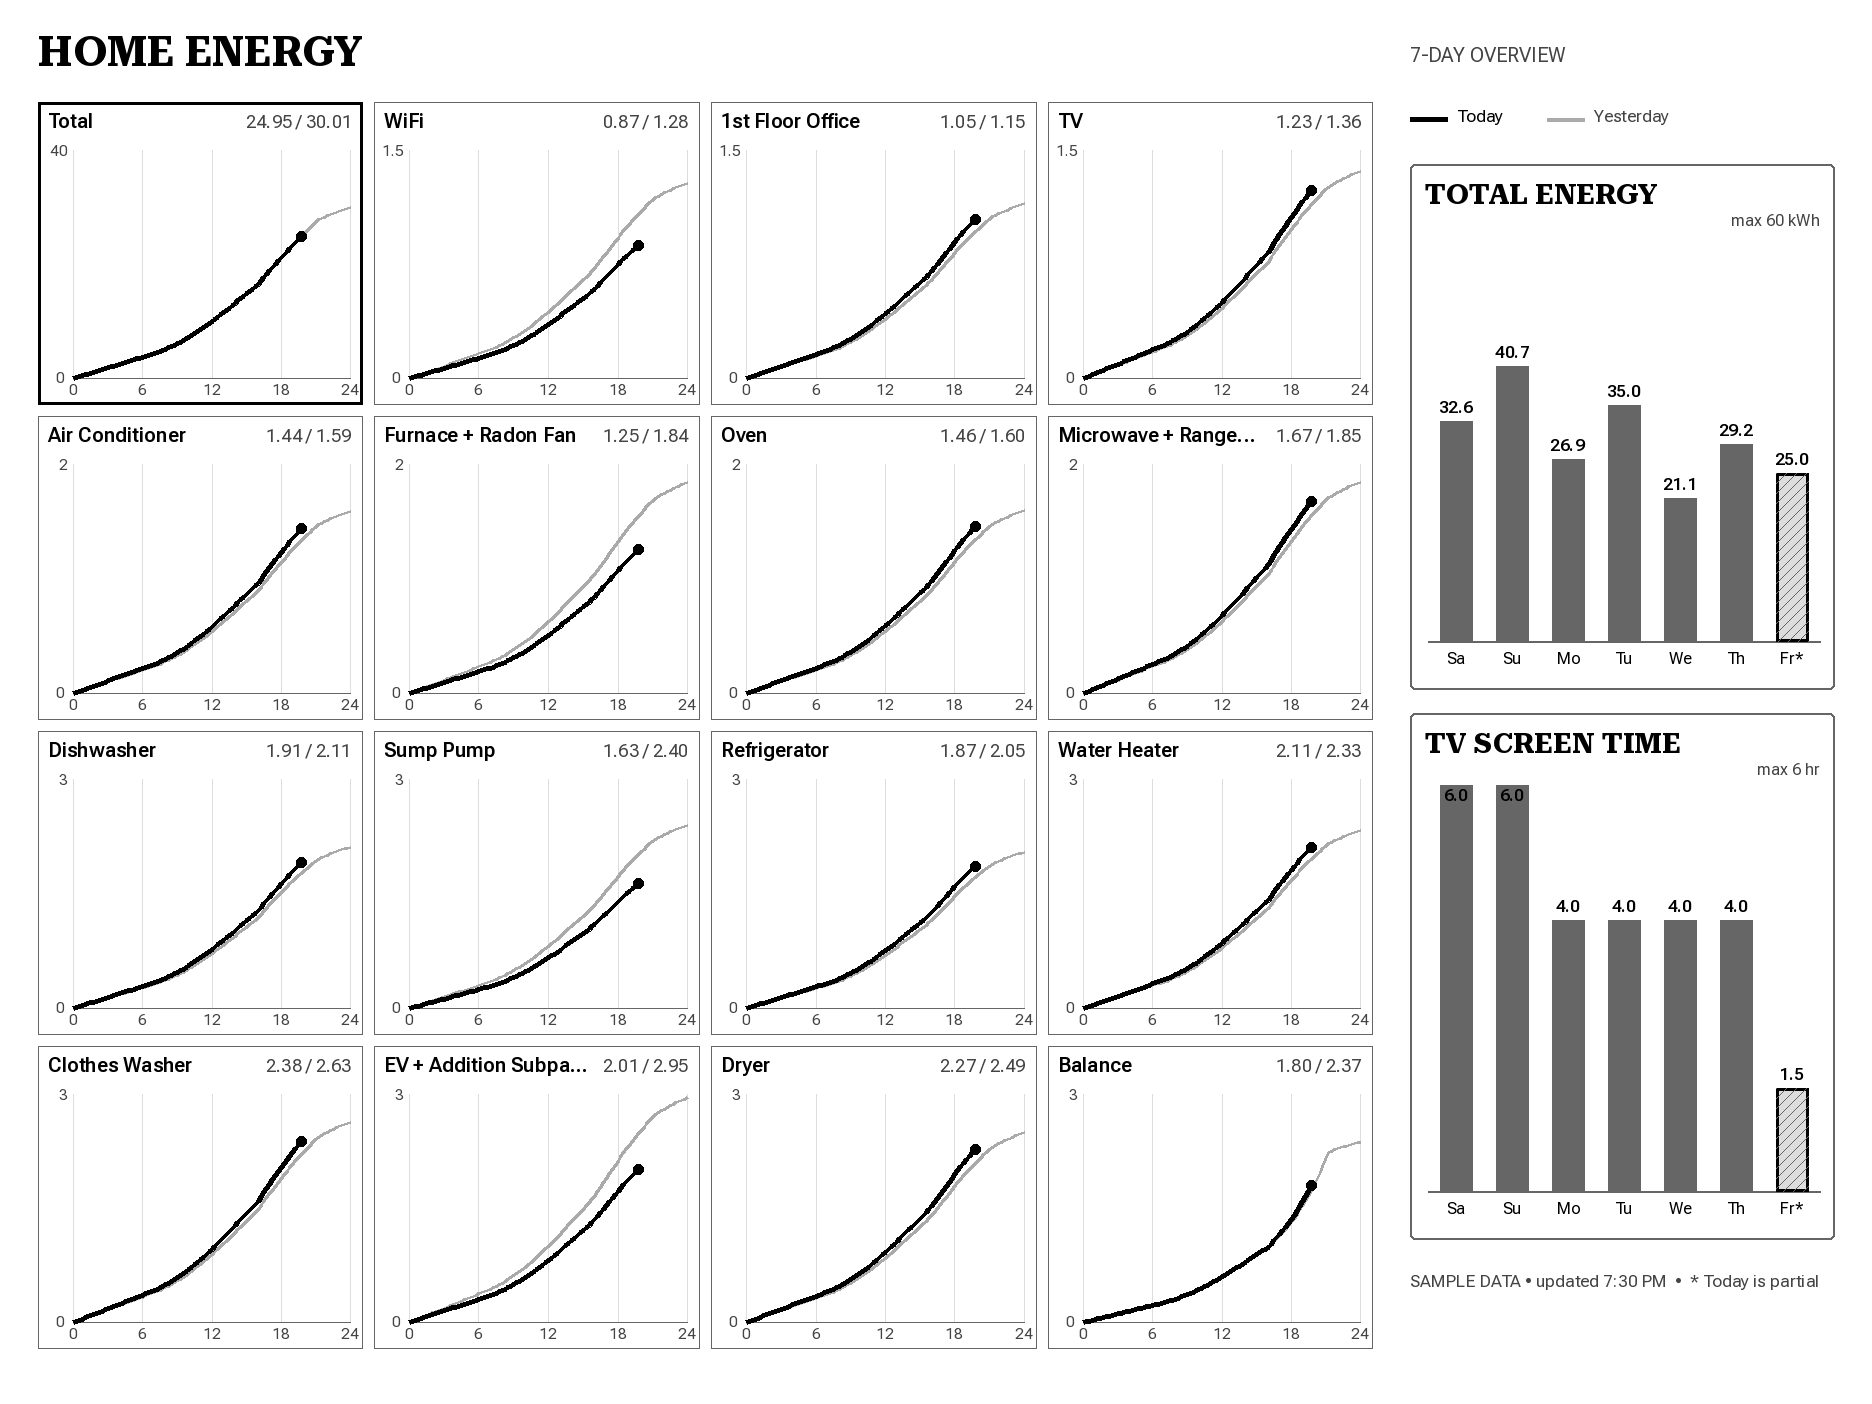
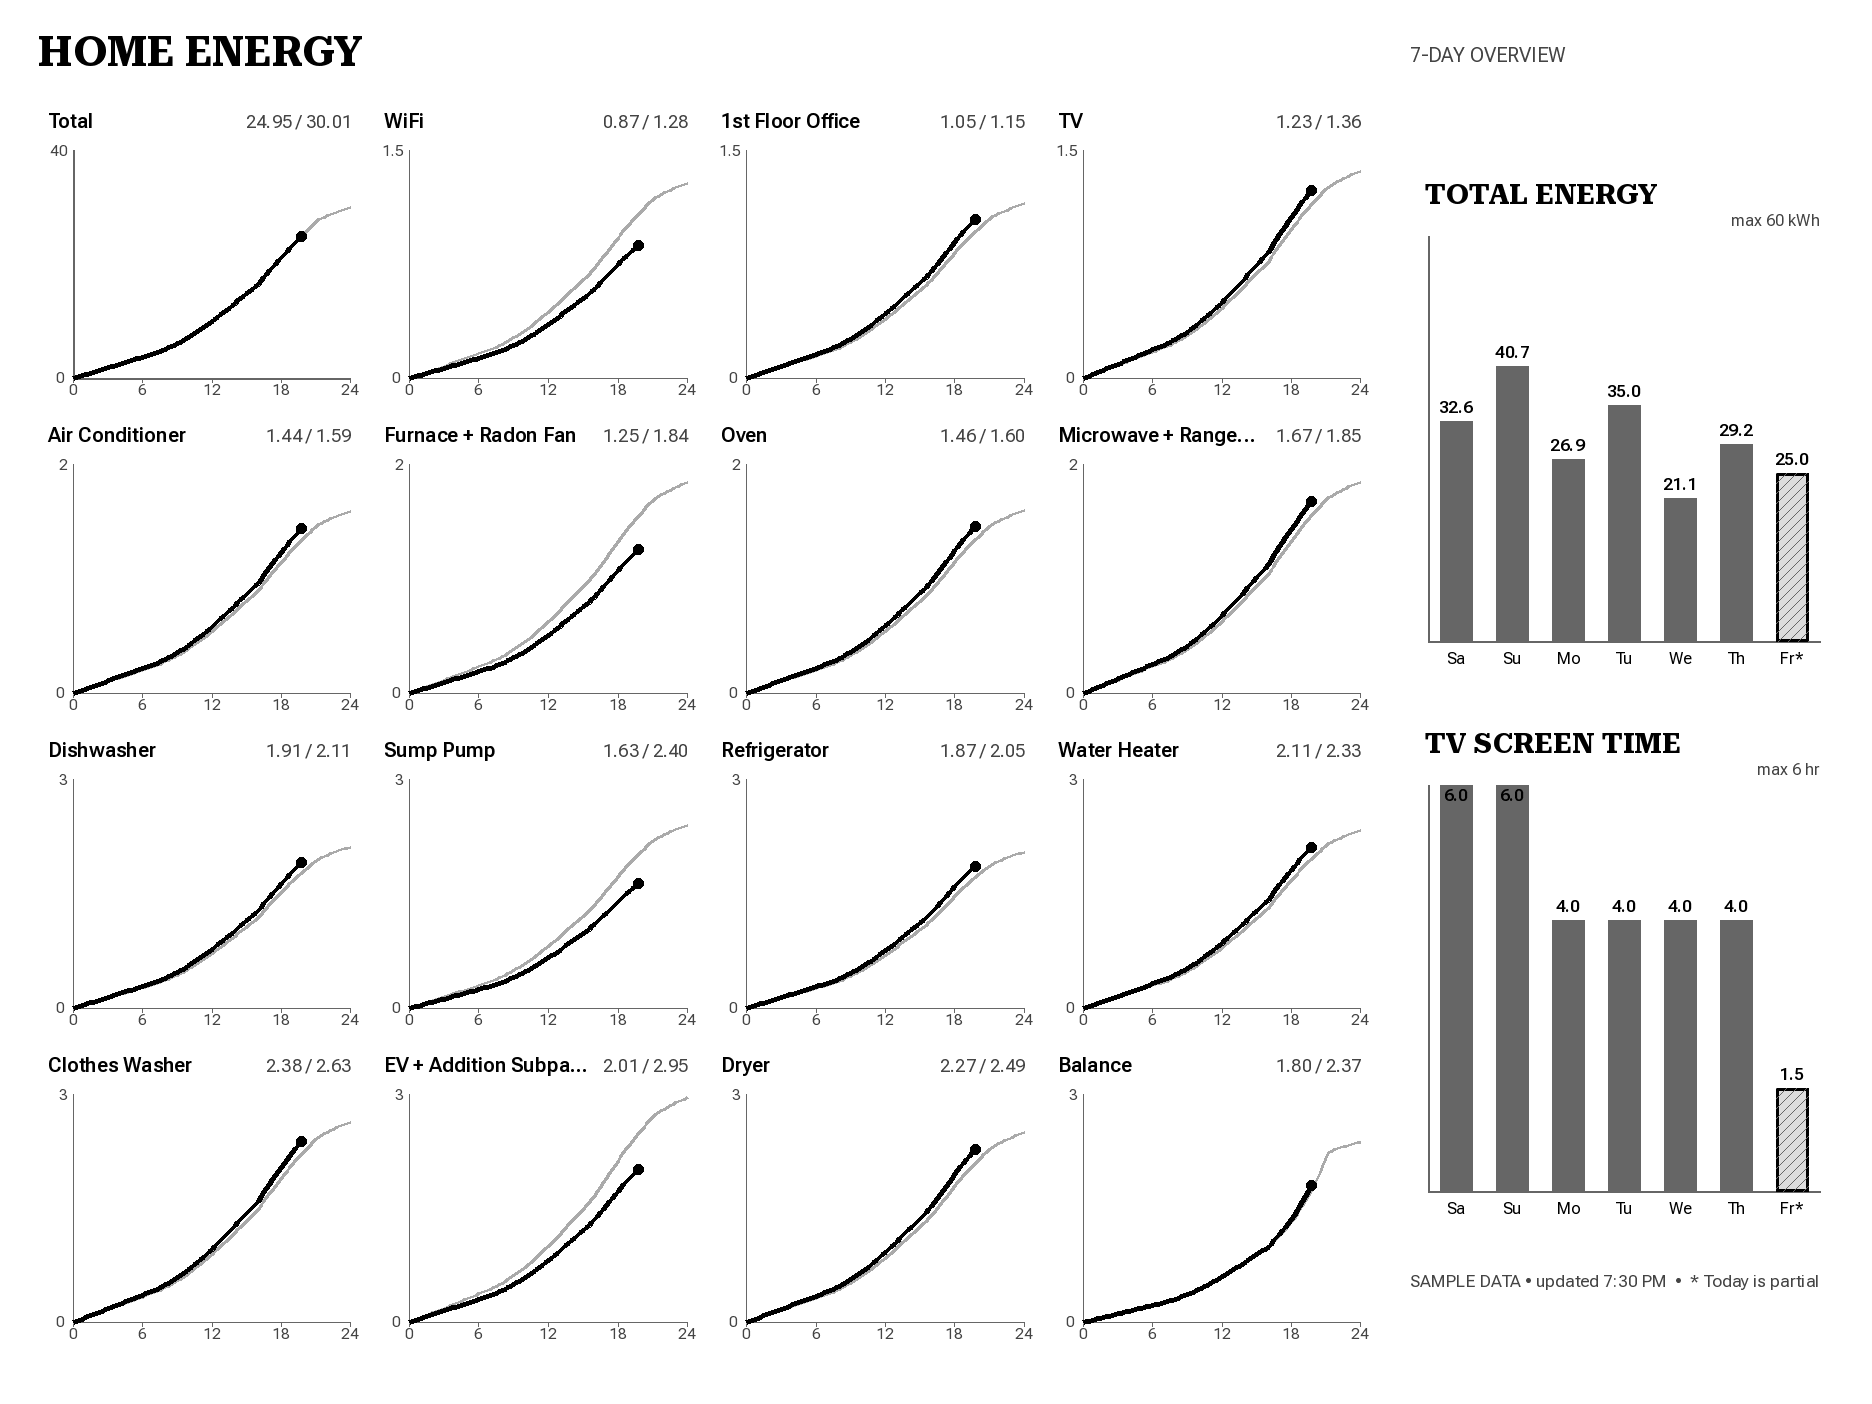
Despine energy dashboard plots

Changed region(s): [[0.8675, 0.0613, 0.8985, 0.0919], [0.7746, 0.0613, 0.8056, 0.0919]]

diff --git a/src/trmnl_weekly_calendar/energy_render.py b/src/trmnl_weekly_calendar/energy_render.py
@@ -39,7 +39,6 @@ WHITE = 255
 BLACK = 0
 TEXT_GRAY = 68
 FRAME_GRAY = 105
-GUIDE_GRAY = 221
 YESTERDAY_GRAY = 170
 COMPLETED_BAR_GRAY = 102
 PARTIAL_BAR_GRAY = 221
@@ -131,6 +130,11 @@ def panel_box(index: int) -> tuple[int, int, int, int]:
     return x0, y0, x1, y1
 
 
+def panel_plot_box(box: tuple[int, int, int, int]) -> tuple[int, int, int, int]:
+    x0, y0, x1, y1 = box
+    return x0 + 35, y0 + 48, x1 - 12, y1 - 26
+
+
 def draw_header(draw: ImageDraw.ImageDraw, data: EnergyDashboardData) -> None:
     draw.text((CANVAS_MARGIN, 27), "HOME ENERGY", font=FONTS["title"], fill=BLACK)
     draw.text(
@@ -139,12 +143,6 @@ def draw_header(draw: ImageDraw.ImageDraw, data: EnergyDashboardData) -> None:
         font=FONTS["subtitle"],
         fill=TEXT_GRAY,
     )
-    legend_y = 119
-    draw.line((SUMMARY_LEFT, legend_y, SUMMARY_LEFT + 37, legend_y), fill=BLACK, width=5)
-    draw.text((SUMMARY_LEFT + 47, legend_y - 13), "Today", font=FONTS["note"], fill=BLACK)
-    yesterday_x = SUMMARY_LEFT + 137
-    draw.line((yesterday_x, legend_y, yesterday_x + 37, legend_y), fill=YESTERDAY_GRAY, width=4)
-    draw.text((yesterday_x + 47, legend_y - 13), "Yesterday", font=FONTS["note"], fill=TEXT_GRAY)
 
 
 def draw_energy_panel(
@@ -155,23 +153,24 @@ def draw_energy_panel(
     emphasize: bool,
 ) -> None:
     x0, y0, x1, y1 = box
-    draw.rectangle(box, outline=BLACK if emphasize else FRAME_GRAY, width=3 if emphasize else 1)
     label = ellipsize(draw, series.label, FONTS["panel"], x1 - x0 - 118)
     draw.text((x0 + 10, y0 + 7), label, font=FONTS["panel"], fill=BLACK)
     totals = f"{series.today_kwh:.2f} / {series.yesterday_kwh:.2f}"
     totals_width, _ = text_wh(draw, totals, FONTS["panel_value"])
     draw.text((x1 - totals_width - 10, y0 + 9), totals, font=FONTS["panel_value"], fill=TEXT_GRAY)
 
-    plot = (x0 + 35, y0 + 48, x1 - 12, y1 - 26)
+    plot = panel_plot_box(box)
     px0, py0, px1, py1 = plot
     maximum = panel_y_max(series)
+    axis_width = 2 if emphasize else 1
+    draw.line((px0, py0, px0, py1), fill=FRAME_GRAY, width=axis_width)
+    draw.line((px0, py1, px1, py1), fill=FRAME_GRAY, width=axis_width)
     for hour in (0, 6, 12, 18, 24):
         x = round(px0 + hour / 24 * (px1 - px0))
-        draw.line((x, py0, x, py1), fill=GUIDE_GRAY, width=1)
+        draw.line((x, py1, x, py1 + 4), fill=FRAME_GRAY, width=1)
         label_text = str(hour)
         label_width, _ = text_wh(draw, label_text, FONTS["axis"])
         draw.text((x - label_width / 2, py1 + 3), label_text, font=FONTS["axis"], fill=TEXT_GRAY)
-    draw.line((px0, py1, px1, py1), fill=FRAME_GRAY, width=1)
     max_label = compact_number(maximum)
     max_width, _ = text_wh(draw, max_label, FONTS["axis"])
     draw.text((px0 - max_width - 5, py0 - 8), max_label, font=FONTS["axis"], fill=TEXT_GRAY)
@@ -234,12 +233,12 @@ def draw_daily_bars(
     today,
 ) -> None:
     x0, y0, x1, y1 = box
-    draw.rounded_rectangle(box, radius=5, outline=FRAME_GRAY, width=2)
     draw.text((x0 + 15, y0 + 13), title, font=FONTS["chart_title"], fill=BLACK)
     visible = tuple(values[-DISPLAY_DAYS:])
     plot = (x0 + 18, y0 + 72, x1 - 14, y1 - 48)
     px0, py0, px1, py1 = plot
     maximum = rounded_axis_max(max((item.value for item in visible), default=0.0))
+    draw.line((px0, py0, px0, py1), fill=FRAME_GRAY, width=2)
     draw.line((px0, py1, px1, py1), fill=FRAME_GRAY, width=2)
     if not visible:
         draw.text((px0, py0 + 20), "No data", font=FONTS["note"], fill=TEXT_GRAY)

diff --git a/tests/test_energy_render.py b/tests/test_energy_render.py
@@ -14,6 +14,7 @@ from trmnl_weekly_calendar.energy_render import (
     PANEL_COUNT,
     W,
     panel_box,
+    panel_plot_box,
     panel_y_max,
     plot_point,
     render_energy_image,
@@ -42,6 +43,30 @@ class EnergyRenderTests(unittest.TestCase):
         self.assertEqual(series[0].key, "total")
         self.assertEqual(series[-1].key, "balance")
         self.assertEqual(len({panel_box(index) for index in range(PANEL_COUNT)}), PANEL_COUNT)
+
+    def test_small_multiples_are_despined_without_legend_or_grid_guides(self) -> None:
+        image = render_energy_image(self.data)
+
+        self.assertEqual(image.crop((1410, 103, 1780, 140)).getextrema(), (255, 255))
+        for index in range(PANEL_COUNT):
+            box = panel_box(index)
+            corners = (
+                (box[0], box[1]),
+                (box[2], box[1]),
+                (box[0], box[3]),
+                (box[2], box[3]),
+            )
+            self.assertTrue(all(image.getpixel(corner) == 255 for corner in corners))
+
+        px0, py0, px1, py1 = panel_plot_box(panel_box(0))
+        self.assertEqual(image.getpixel((px0, py0 + 8)), 105)
+        self.assertEqual(image.getpixel(((px0 + px1) // 2, py1)), 105)
+        for hour in (6, 12, 18, 24):
+            x = round(px0 + hour / 24 * (px1 - px0))
+            self.assertEqual(image.getpixel((x, py0 + 8)), 255)
+
+        self.assertEqual(image.getpixel((1410, 164)), 255)
+        self.assertEqual(image.getpixel((1428, 244)), 105)
 
     def test_today_line_stops_at_latest_sample(self) -> None:
         total = stable_plot_series(self.data.series)[0]

diff --git a/docs/agent-plans/2026-08-07-emporia-energy-dashboard.md b/docs/agent-plans/2026-08-07-emporia-energy-dashboard.md
@@ -435,3 +435,7 @@ and no issue was created.
   metadata-only live adapter check returned exactly one mains plus fourteen
   physical channels. All 50 repository tests pass and the regenerated sample is
   a true `1872x1404` 4-bit grayscale PNG. Chunks 3-4 remain intentionally pending.
+- 2026-08-07: Iterated on the sample renderer from user feedback: removed the
+  Today/Yesterday legend, removed all subplot/card frames and grid guides, and
+  adopted a consistent despined treatment with inset left/bottom axes. The
+  regenerated 4-bit sample passes all 51 repository tests.
